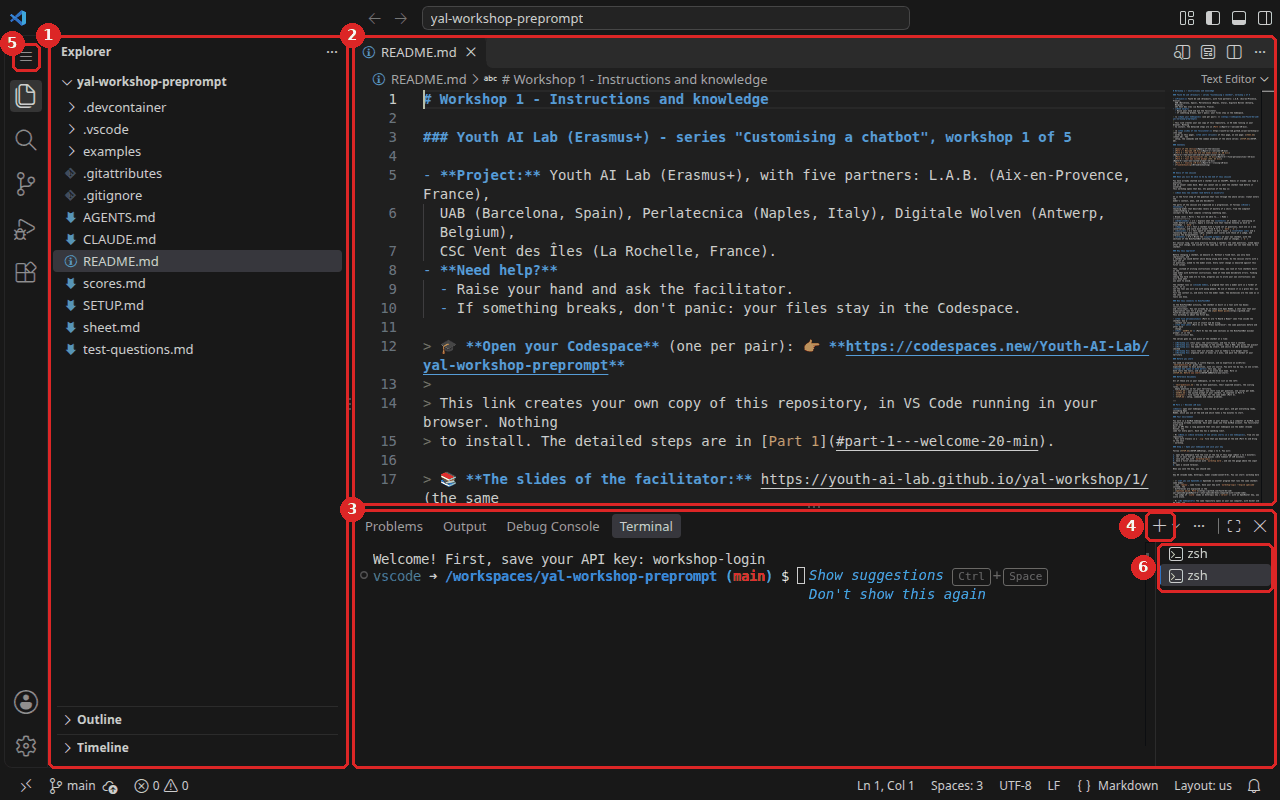
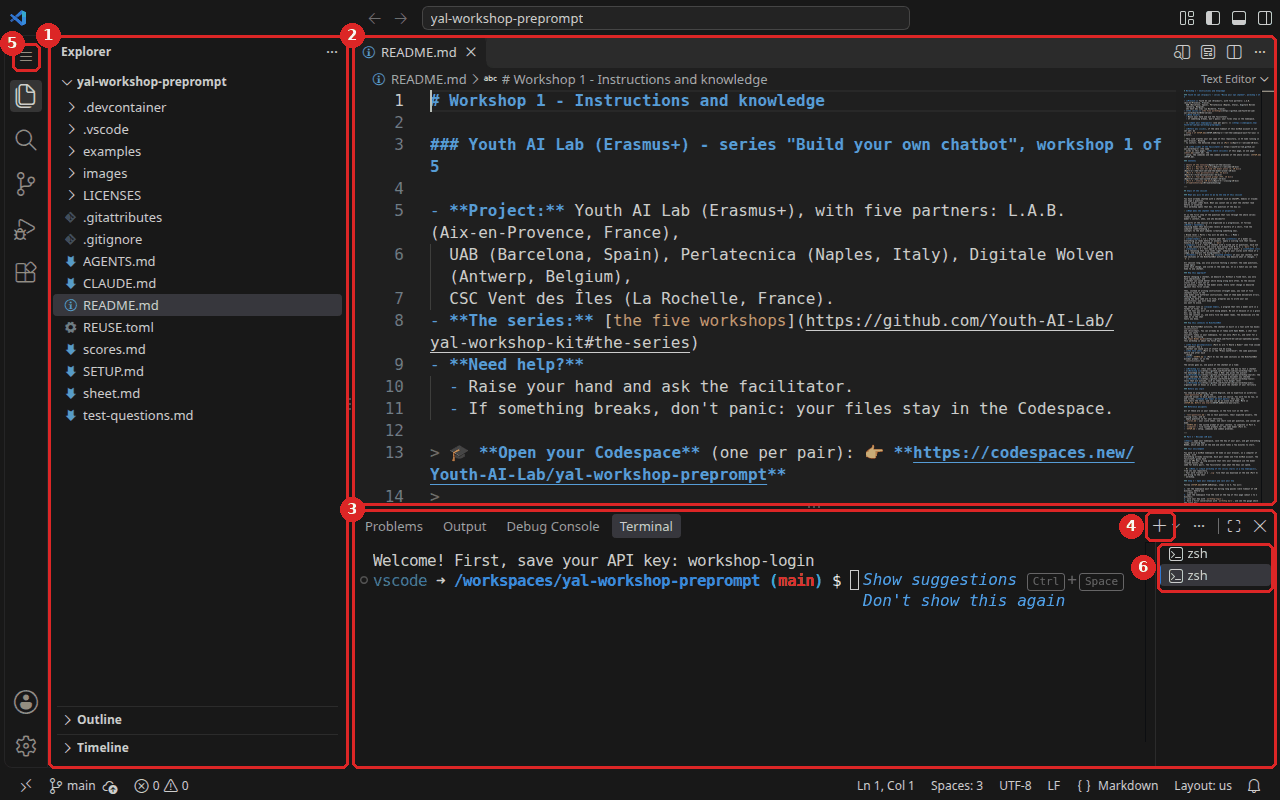
Captures refaites avec l'image 2026.10.38 : guide Open WebUI (chatbot « Summer camp - fire rules », deux vraies questions), terminal Claude Code (bannière « Workshop: mode ... », clé « Antwerp - Flanders, Belgium »), VS Code des ateliers (ligne 3 « Build your own chatbot ») ; bannière citée dans SET

Changed region(s): [[0.2812, 0.0938, 1.0, 0.625], [0.0312, 0.1875, 0.3125, 0.5312], [0.2812, 0.6875, 0.875, 0.7812]]

diff --git a/SETUP.md b/SETUP.md
@@ -136,7 +136,7 @@ If you see another message, look at [Troubleshooting](#troubleshooting).
    You should see this line, then the screen of Claude Code:
 
    ```
-   Workshop — mode bare. To quit: press Ctrl+C twice. Other modes: workshop bare | A | B | C | D | E | F
+   Workshop: mode bare. To quit: press Ctrl+C twice. Other modes: workshop bare | A | B | C | D | E | F
    ```
 
 2. **The first time**, a few screens come one after the other. None of them is a problem:

diff --git a/README.md b/README.md
@@ -1,6 +1,6 @@
 # Workshop 5 - Organise what it knows
 
-### Youth AI Lab (Erasmus+) - series "Customising a chatbot", workshop 5 of 5
+### Youth AI Lab (Erasmus+) - series "Build your own chatbot", workshop 5 of 5
 
 - **Project:** Youth AI Lab (Erasmus+), with five partners: L.A.B. (Aix-en-Provence, France),
   UAB (Barcelona, Spain), Perlatecnica (Naples, Italy), Digitale Wolven (Antwerp, Belgium),
